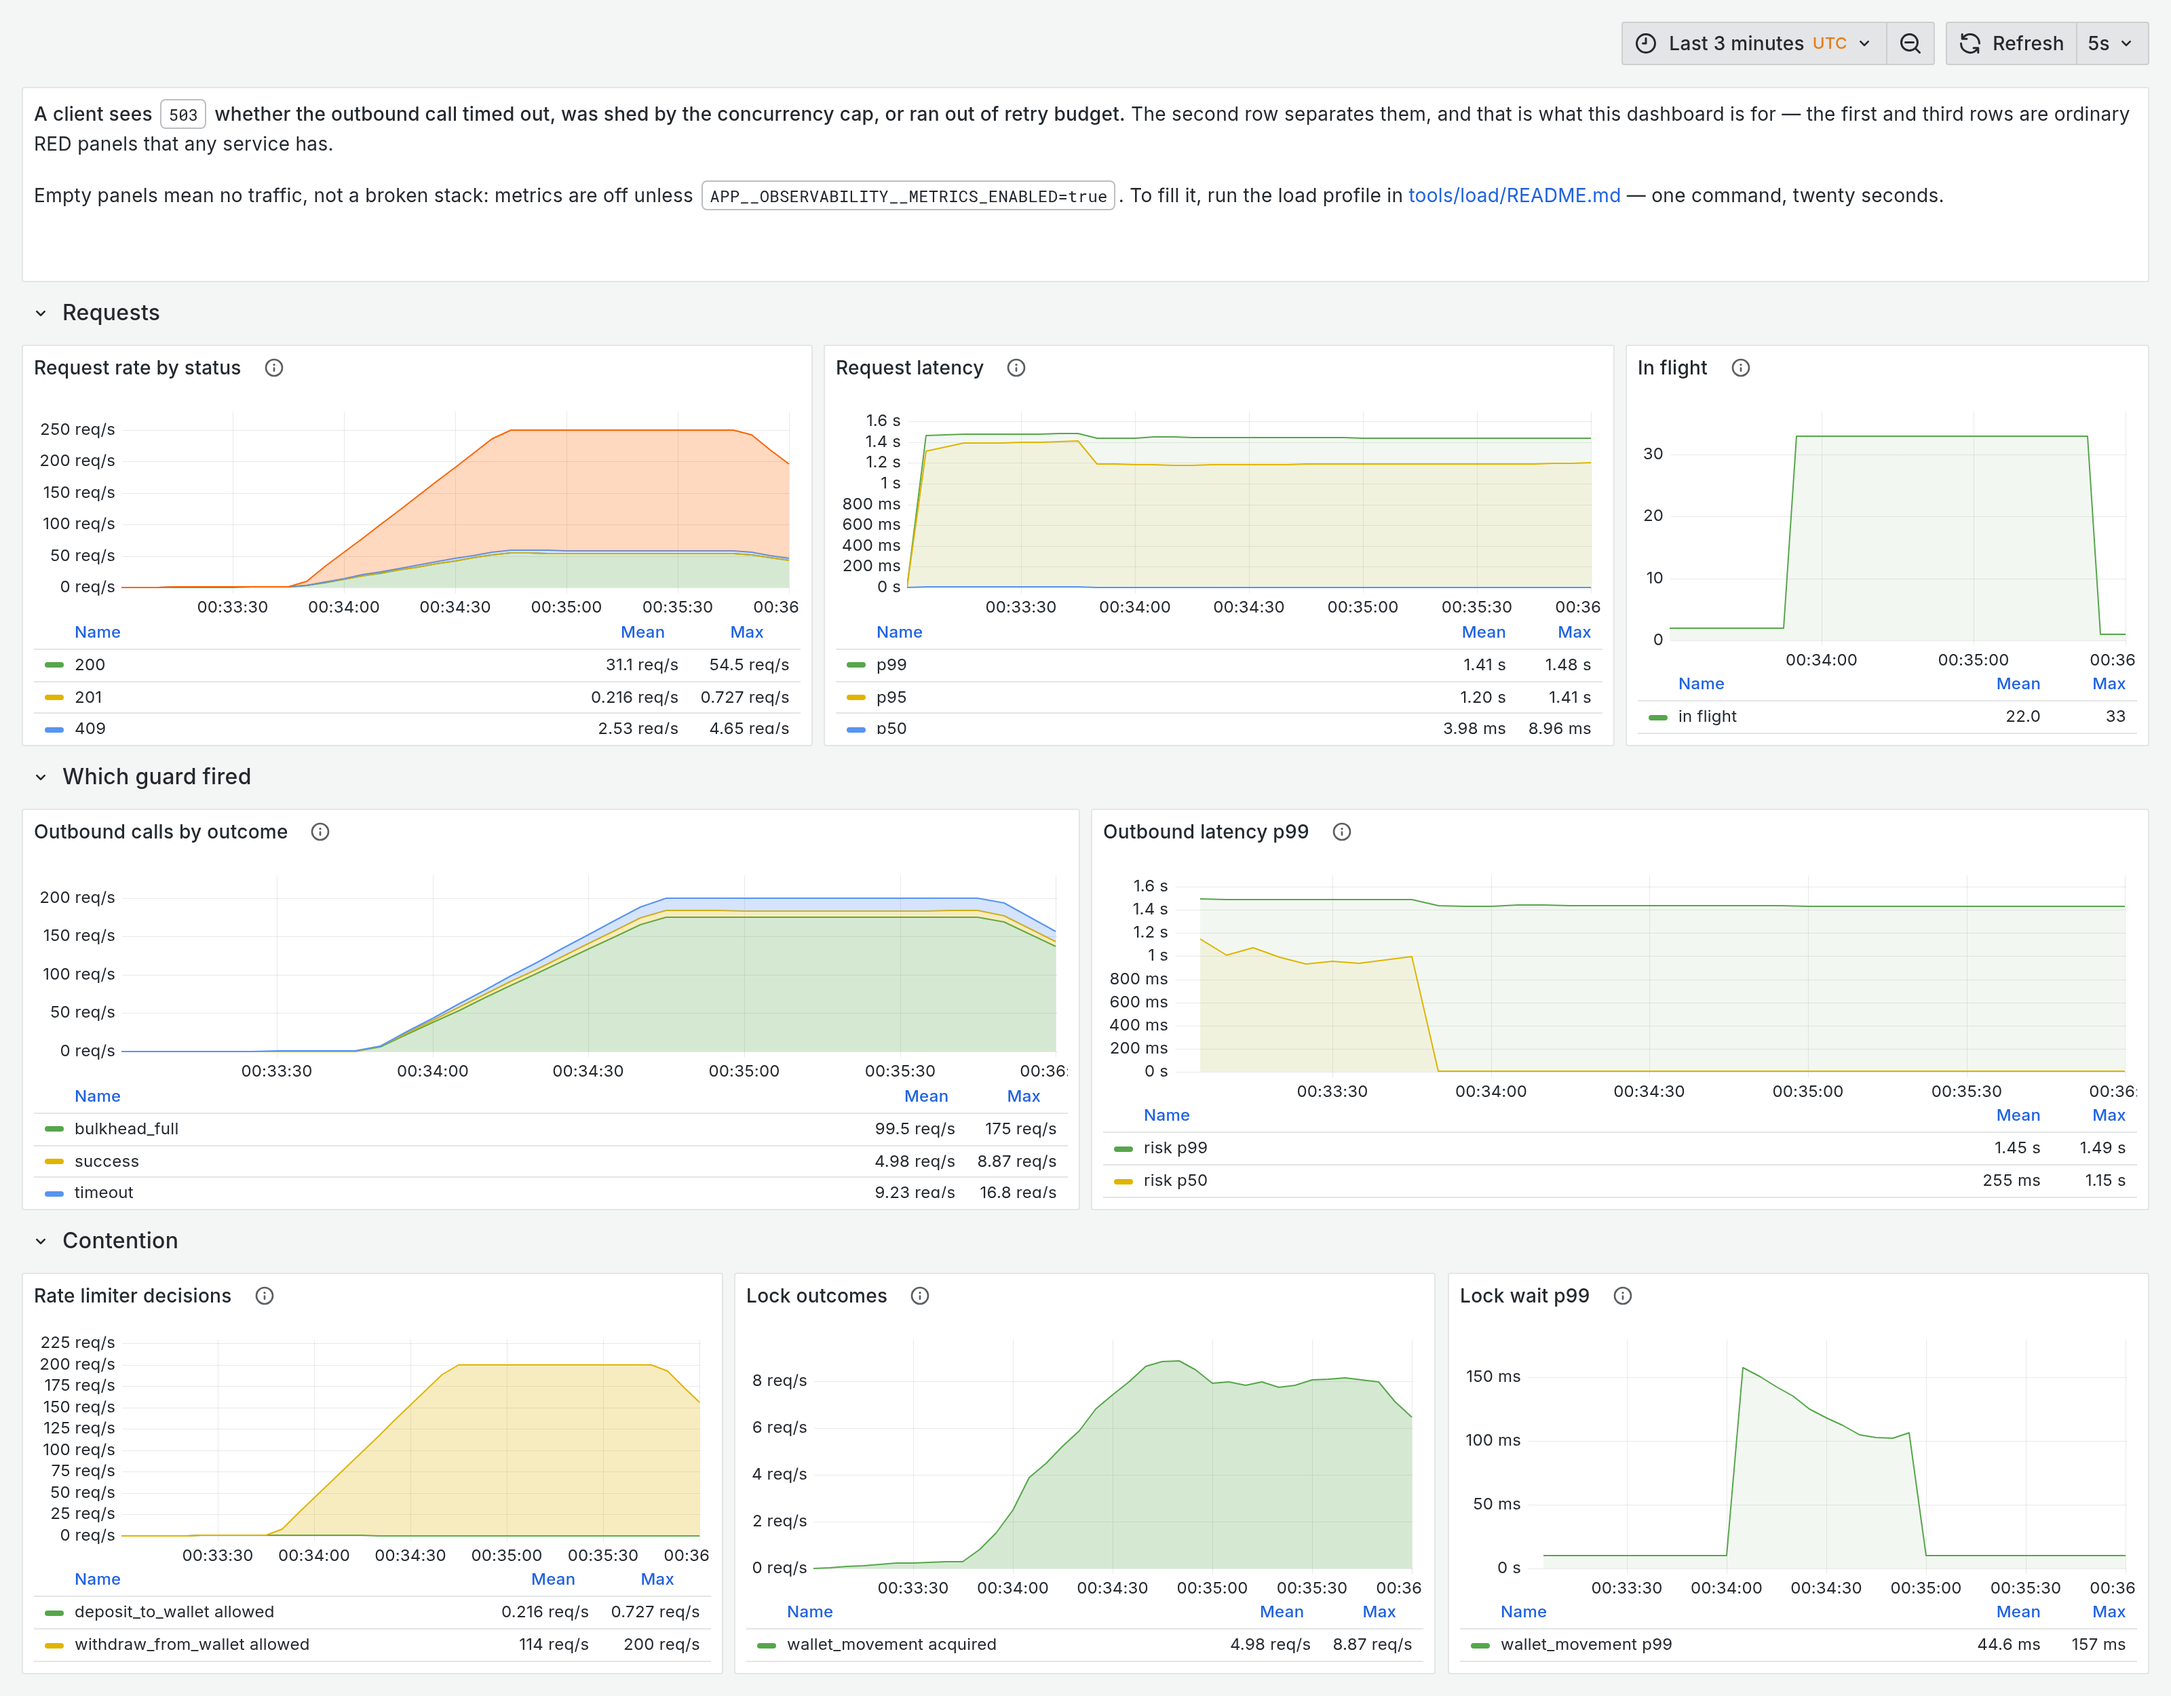
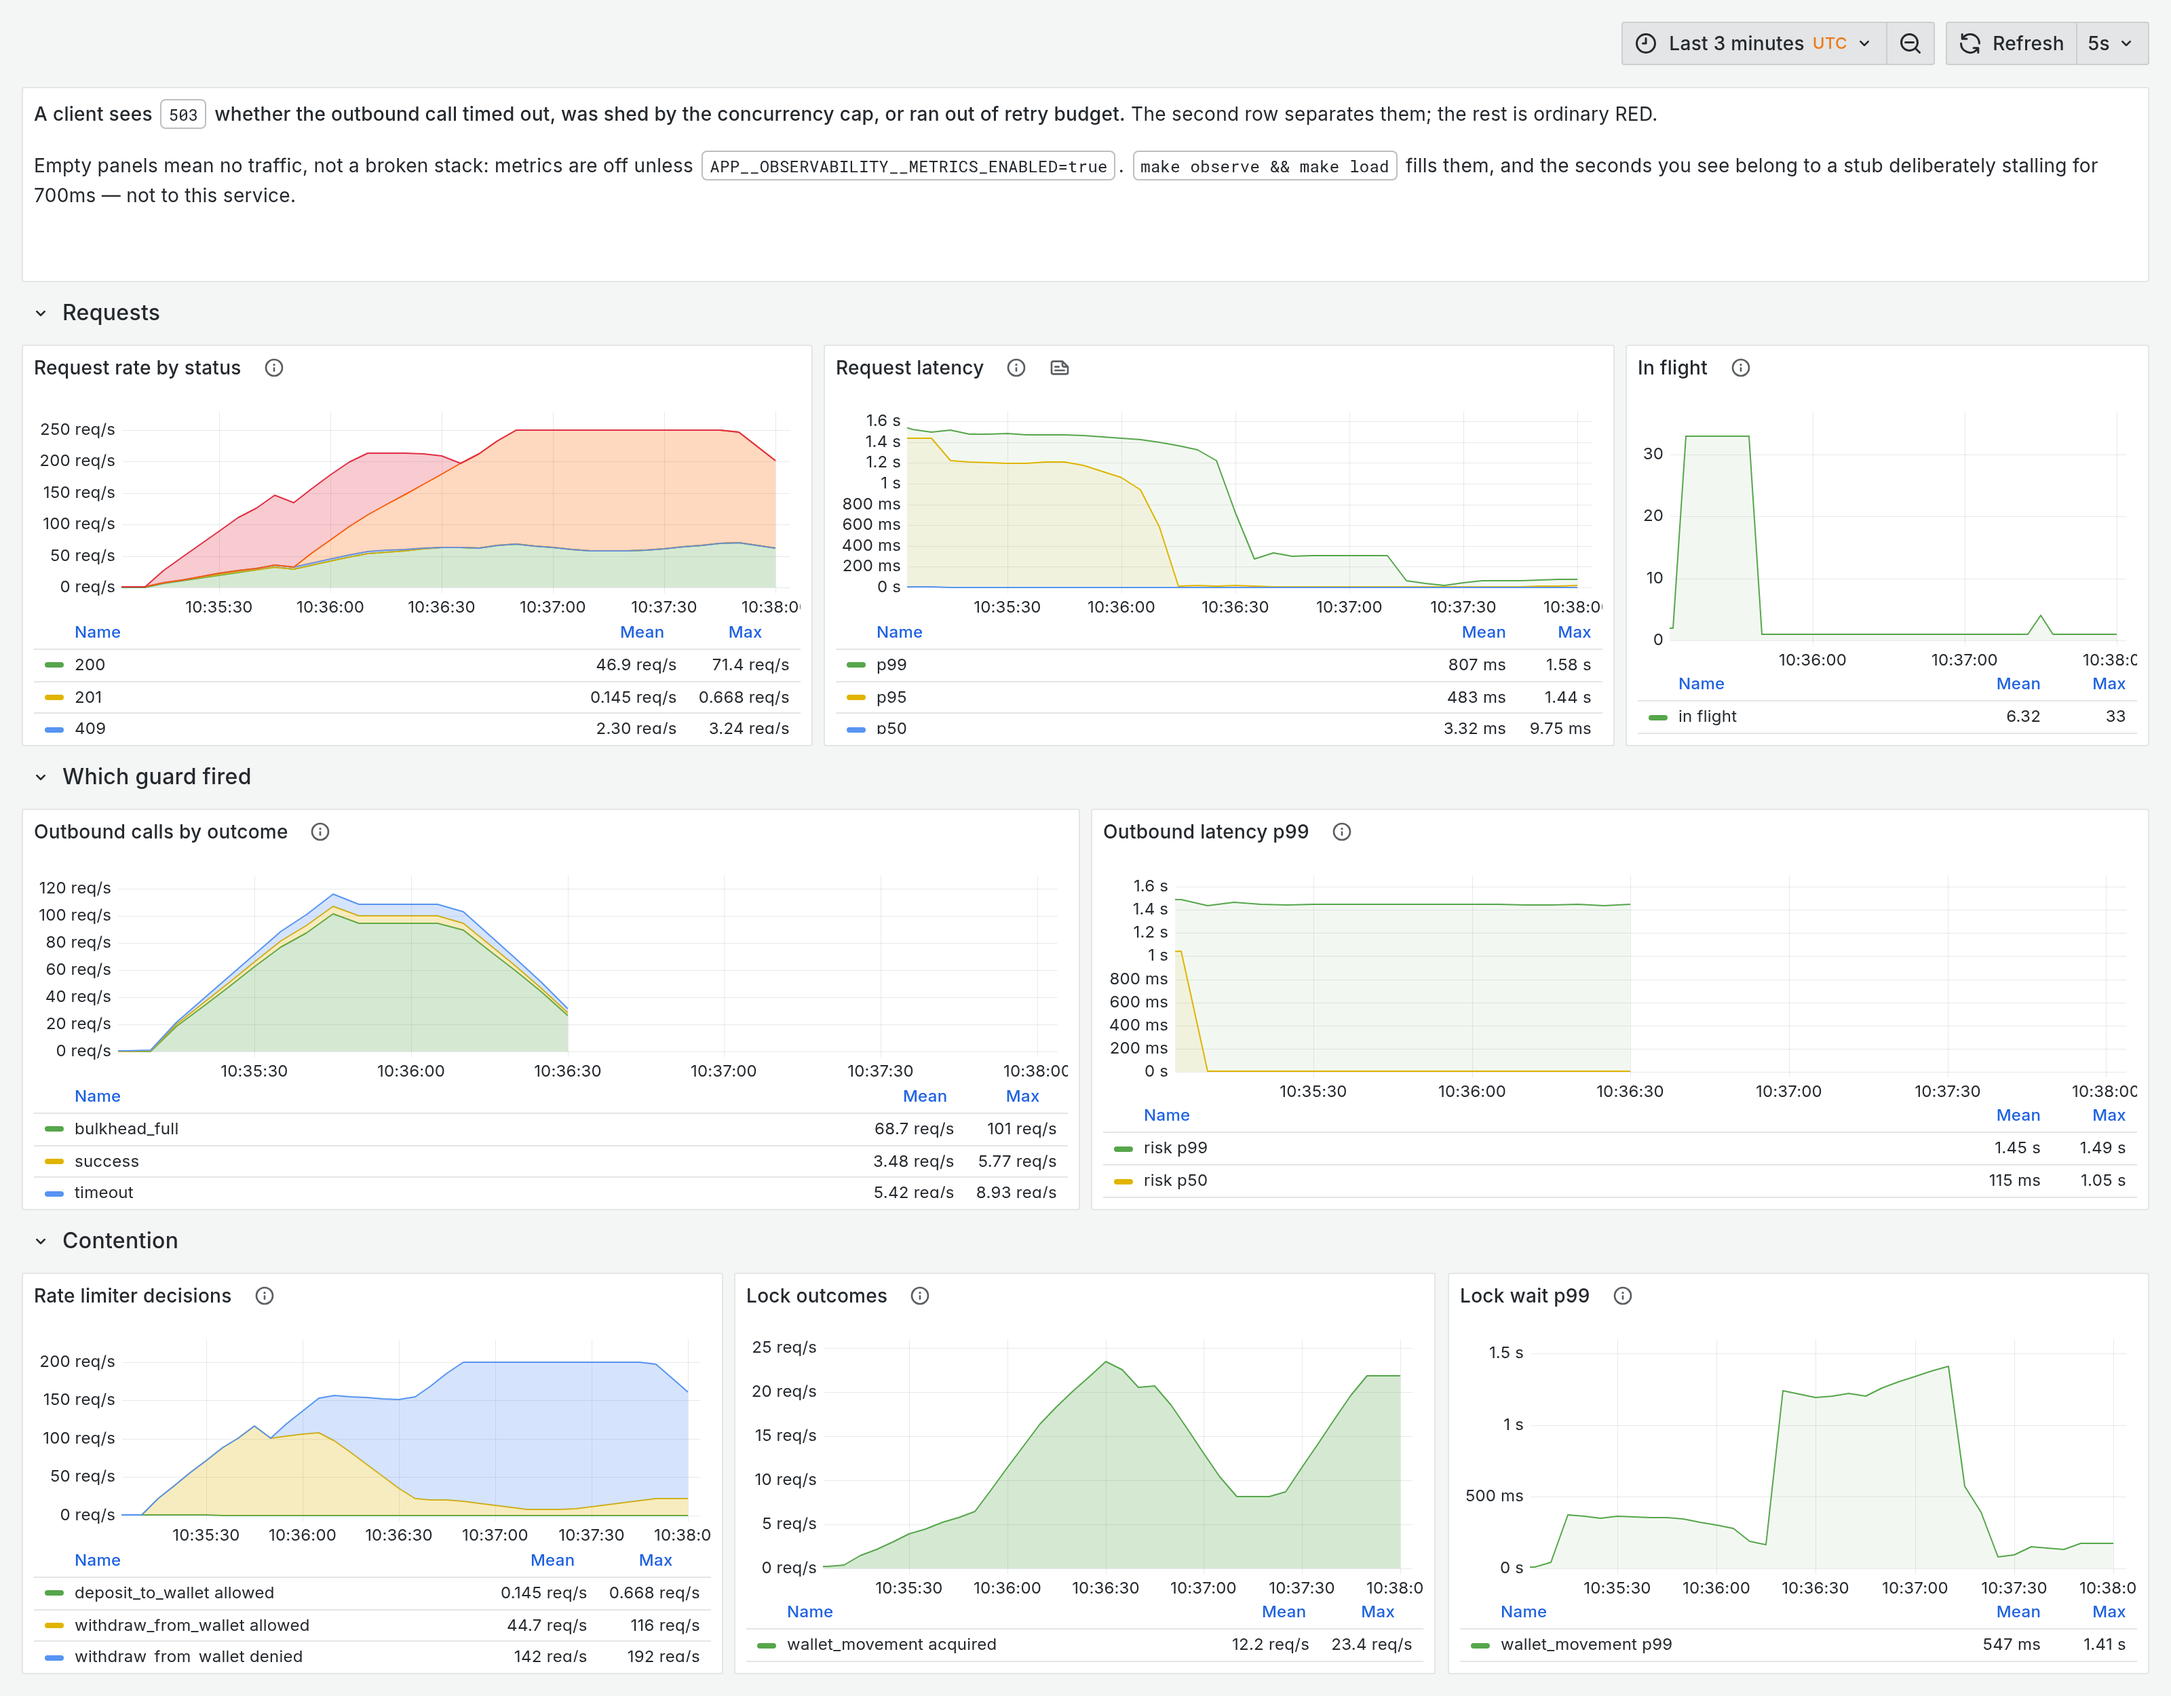
fix(ops): the first documented command failed on a busy port 8000
A cold start from `down -v`, following the README literally, died on
`make observe` with a Docker networking error that never mentions
`API_PORT`. Port 8000 is the one every other local API is already using.

The repo had already written this fix twice, in the same file: Postgres is
on 55432 and Redis on 56379, "off the default port on purpose: a template
that grabs 5432 collides with whatever Postgres the machine is already
running, and the first experience of it is a port conflict instead of a
working API". The API was on 8000. It is on 58000 now, and `make observe`
prints the URL.

Nothing else moves: the demo tape and the k6 runs use `api:8000` on the
compose network, and only one curl line in tools/load/README.md quoted the
host port.

`make dashboard-image` also failed badly. Without the `render` profile it
spent two minutes generating load and then reported `curl: (22) ... error
500`. It now checks Grafana and the renderer first — 0.12s, with the
command to run.

Verified on the running stack, since it is the constraint the alert file is
written under: zero of the eight rules fire on an idle service.

diff --git a/README.md b/README.md
@@ -159,29 +159,33 @@ The picture exists because a degraded dependency is the only condition under
 which the middle row has anything to say.
 
 ```bash
-make observe   # api + postgres + prometheus + grafana, on localhost:3000
+make observe   # api + postgres + prometheus + grafana; grafana on localhost:3000
 make load      # 200 writes/s for 30s against the stalling provider
 ```
 
-It is regenerated by `make dashboard-image` rather than pasted from a laptop — a
-screenshot that cannot be reproduced is a claim, and this repository does not
-ship those.
+`make dashboard-image` regenerates it, with the `render` profile up:
+
+```bash
+docker compose -f compose.yml -f compose.observability.yml --profile load --profile render up -d --wait
+make dashboard-image
+```
 
 Eight alert rules sit alongside it in
 [ops/prometheus/alerts.yml](ops/prometheus/alerts.yml), under one constraint:
 **none of them may fire on an idle service.** Every ratio carries a minimum
 volume gate, because `0/0` is not the problem — one request, one failure and a
-ratio of `1.0` is. The rules were ported from a production service whose Redis
-memory alert divided by a `maxmemory` nobody had set, paged on a healthy
-instance, and taught everyone to ignore the channel.
+ratio of `1.0` is. An alert that pages on a healthy
+instance is one everyone learns to ignore, and it takes the rest of the file
+with it.
 
 The dashboard is checked against the code by
 `tests/unit/test_observability_stack.py`: every panel and every alert must name
 a metric the adapter actually emits, and no scrape label may shadow one the
 application sets. That last test exists because `service: evenkeel` on the
 target looked like harmless decoration and quietly replaced the label naming the
-*dependency* — so `by (service)` grouped by a constant and drew one line for
-every provider. The panels still rendered.
+*dependency* — so `by (service)` grouped by a constant and drew a single line
+labelled "evenkeel" however many providers there were. The panels still
+rendered.
 
 ## A second transport, over the same use cases
 

diff --git a/tools/load/README.md b/tools/load/README.md
@@ -23,7 +23,7 @@ docker run --rm -i --network evenkeel_default -e BASE_URL=http://api:8000 \
 ```
 
 ```bash
-curl -s localhost:8000/metrics | grep evenkeel_external_call_total
+curl -s localhost:58000/metrics | grep evenkeel_external_call_total
 ```
 
 Or read it on a dashboard instead of in a grep — `make observe` brings the same
